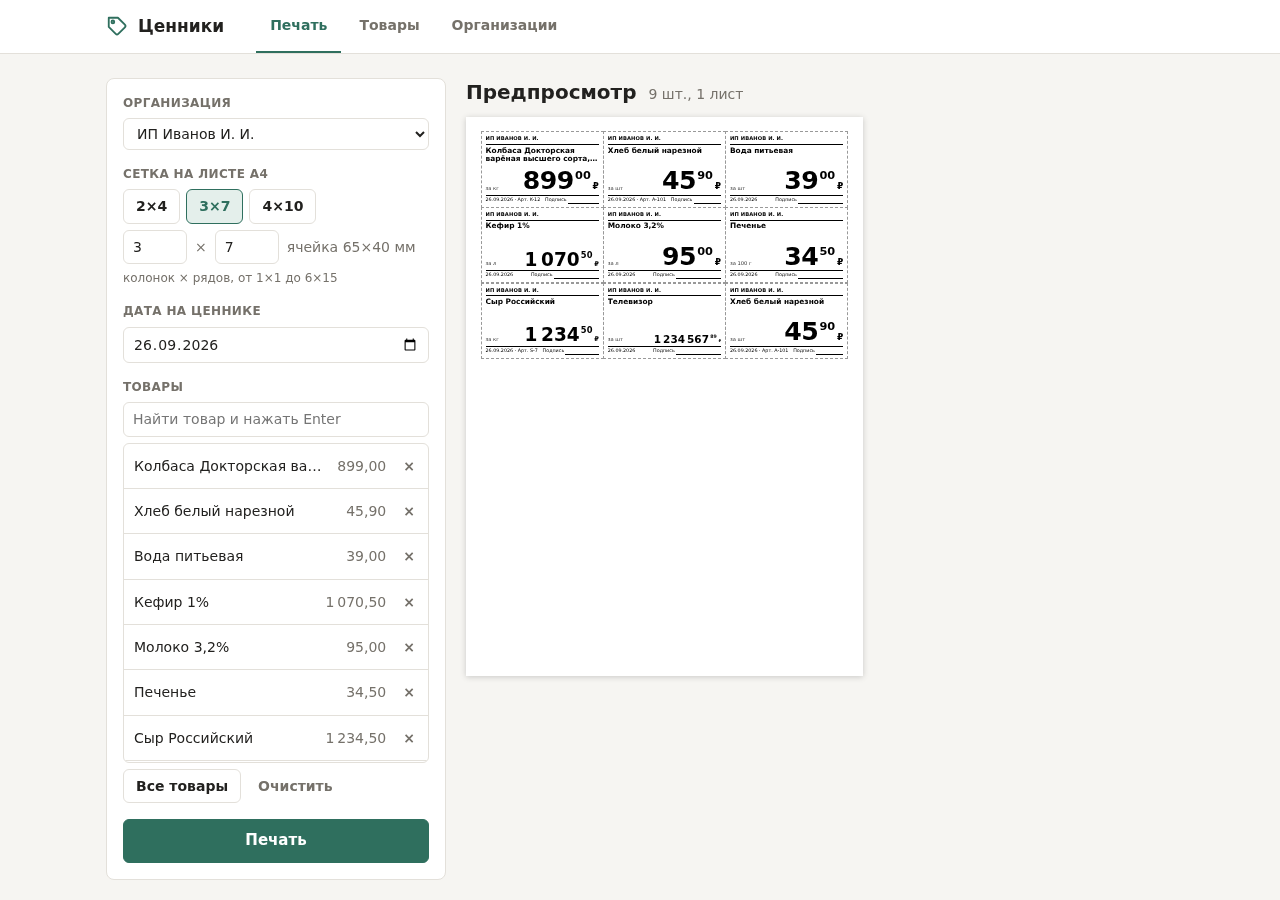
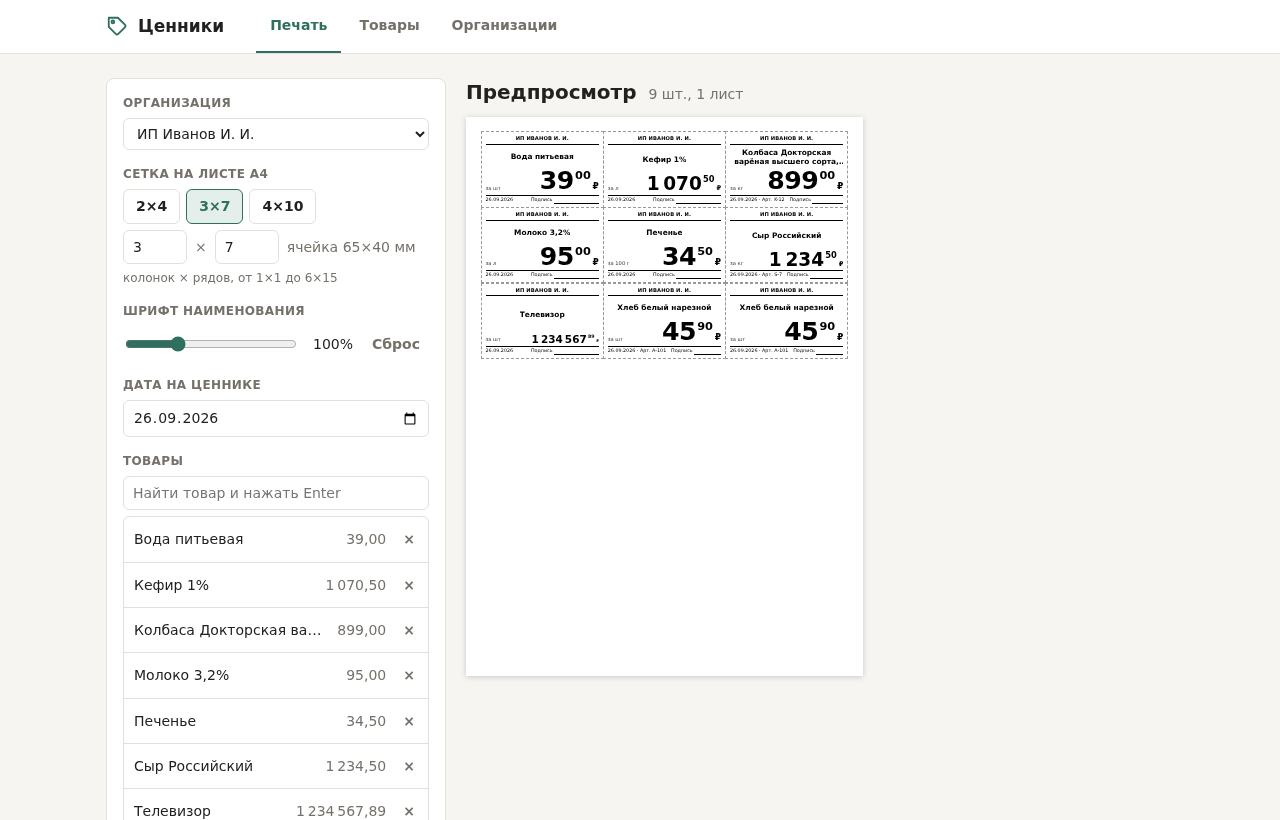
feat: размер шрифта наименования и организация по центру
Ползунок «Шрифт наименования» от 60% до 200% (по умолчанию 100%) с кнопкой
сброса, значение запоминается в браузере. Число строк наименования
подбирается по свободному месту между шапкой и ценой (до четырёх) и
пересчитывается перед печатью, поэтому крупный шрифт не выталкивает цену
из ячейки. Название организации выровнено по центру.

diff --git a/src/index_page.cpp b/src/index_page.cpp
@@ -80,6 +80,9 @@ td.actions { width: 1%; white-space: nowrap; text-align: right; }
 .presets .btn.active { background: var(--accent-soft); border-color: var(--accent); color: var(--accent); }
 .grid-inputs { display: flex; align-items: center; gap: 8px; color: var(--muted); }
 .grid-inputs input { width: 64px; }
+.scale { display: flex; align-items: center; gap: 10px; }
+.scale input[type=range] { flex: 1; accent-color: var(--accent); padding: 0; border: none; background: none; }
+.scale output { width: 44px; text-align: right; font-variant-numeric: tabular-nums; }
 .hint { color: var(--muted); font-size: 12px; }
 .picker { position: relative; }
 .picker input { width: 100%; }
@@ -107,10 +110,10 @@ td.actions { width: 1%; white-space: nowrap; text-align: right; }
 .tag { container-type: size; border: .3mm dashed #999; margin: -.15mm; overflow: hidden; }
 .tag-in { height: 100%; display: flex; flex-direction: column; padding: 4cqmin 5cqmin; gap: 2.5cqh;
   font-family: "Noto Sans", "DejaVu Sans", Arial, sans-serif; }
-.tag-org { flex: none; font-size: clamp(5px, min(7cqh, 5cqw), 5mm); font-weight: 600; text-transform: uppercase; letter-spacing: .02em;
+.tag-org { flex: none; text-align: center; font-size: clamp(5px, min(7cqh, 5cqw), 5mm); font-weight: 600; text-transform: uppercase; letter-spacing: .02em;
   border-bottom: .3mm solid #000; padding-bottom: 1.5cqh; white-space: nowrap; overflow: hidden; text-overflow: ellipsis; }
-.tag-name-box { flex: 1 0 auto; display: flex; align-items: center; justify-content: center; text-align: center; }
-.tag-name { font-size: min(10cqh, 7cqw); font-weight: 600; line-height: 1.15; overflow: hidden; display: -webkit-box;
+.tag-name-box { flex: 1 1 0; min-height: 0; overflow: hidden; display: flex; align-items: center; justify-content: center; text-align: center; }
+.tag-name { font-size: calc(min(10cqh, 7cqw) * var(--name-scale, 1)); font-weight: 600; line-height: 1.15; overflow: hidden; display: -webkit-box;
   -webkit-box-orient: vertical; -webkit-line-clamp: 2; overflow-wrap: anywhere; }
 .tag-row { flex: none; display: flex; align-items: flex-end; justify-content: space-between; gap: 3cqw; }
 .tag-unit { font-size: min(7cqh, 5cqw); color: #333; white-space: nowrap; padding-bottom: .5cqh; }
@@ -169,6 +172,13 @@ td.actions { width: 1%; white-space: nowrap; text-align: right; }
             <span id="p-cell"></span>
           </div>
           <div class="hint">колонок × рядов, от 1×1 до 6×15</div>
+        </div>
+        <div class="field"><span>Шрифт наименования</span>
+          <div class="scale">
+            <input id="p-scale" type="range" min="60" max="200" step="10" aria-label="Размер шрифта наименования, %">
+            <output id="p-scale-val"></output>
+            <button class="btn link" id="p-scale-reset" title="Вернуть 100%">Сброс</button>
+          </div>
         </div>
         <label class="field"><span>Дата на ценнике</span><input id="p-date" type="date"></label>
         <div class="field"><span>Товары</span>
@@ -392,6 +402,8 @@ const printForm = (() => {
   const PRESETS = [[2, 4], [3, 7], [4, 10]];
   const LIMITS = { cols: [1, 6], rows: [1, 15] };
   const $ = id => document.getElementById(id);
+  const SCALE = [60, 200, 100];
+  const scale = $("p-scale");
   const orgSel = $("p-org"), cols = $("p-cols"), rows = $("p-rows"), date = $("p-date"), search = $("p-search"),
     suggest = $("p-suggest"), chosenList = $("p-chosen"), sheets = $("p-sheets"), summary = $("p-summary");
   let allProducts = [], allOrgs = [], chosen = [], cursor = 0;
@@ -401,7 +413,7 @@ const printForm = (() => {
     set(v) { try { localStorage.setItem("print", JSON.stringify(v)); } catch (e) { /* хранилище недоступно */ } },
   };
   function save() {
-    store.set({ org: orgSel.value, cols: cols.value, rows: rows.value, products: chosen });
+    store.set({ org: orgSel.value, cols: cols.value, rows: rows.value, scale: scale.value, products: chosen });
   }
 
   const clamp = (v, [lo, hi], def) => { const n = parseInt(v, 10); return Number.isFinite(n) ? Math.min(hi, Math.max(lo, n)) : def; };
@@ -441,10 +453,22 @@ const printForm = (() => {
       sheet.style.setProperty("--rows", r);
       pages.push(sheet);
     }
+    sheets.style.setProperty("--name-scale", clamp(scale.value, SCALE, SCALE[2]) / 100);
     sheets.replaceChildren(...pages);
+    fitNames();
     const n = pages.length;
     summary.textContent = items.length ? `${items.length} шт., ${n} ${n === 1 ? "лист" : n < 5 ? "листа" : "листов"}` : "добавьте товары слева";
     $("p-print").disabled = !items.length;
+  }
+
+  /* Наименование показывает столько строк, сколько помещается между шапкой и ценой (до 4). */
+  function fitNames() {
+    for (const name of sheets.querySelectorAll(".tag-name")) {
+      const box = name.parentElement.clientHeight;
+      if (!box) continue;
+      const lh = parseFloat(getComputedStyle(name).lineHeight);
+      name.style.webkitLineClamp = String(Math.max(1, Math.min(4, Math.floor(box / lh))));
+    }
   }
 
   function renderChosen() {
@@ -505,6 +529,9 @@ const printForm = (() => {
     inp.addEventListener("change", () => { const [c, r] = grid(); cols.value = c; rows.value = r; update(); });
   }
   orgSel.addEventListener("change", update);
+  const showScale = () => { $("p-scale-val").textContent = `${scale.value}%`; };
+  scale.addEventListener("input", () => { showScale(); renderSheets(); save(); });
+  $("p-scale-reset").addEventListener("click", () => { scale.value = SCALE[2]; showScale(); renderSheets(); save(); });
   date.addEventListener("change", renderSheets);
   $("p-all").addEventListener("click", () => {
     const have = new Set(chosen);
@@ -513,10 +540,14 @@ const printForm = (() => {
   });
   $("p-clear").addEventListener("click", () => { chosen = []; update(); });
   $("p-print").addEventListener("click", () => window.print());
+  window.addEventListener("beforeprint", fitNames);
+  window.addEventListener("afterprint", fitNames);
 
   const saved = store.get();
   cols.value = clamp(saved.cols, LIMITS.cols, 3);
   rows.value = clamp(saved.rows, LIMITS.rows, 7);
+  scale.value = clamp(saved.scale, SCALE, SCALE[2]);
+  showScale();
   chosen = Array.isArray(saved.products) ? saved.products.filter(Number.isInteger) : [];
   date.value = today();
 

diff --git a/README.md b/README.md
@@ -18,8 +18,14 @@
 
 ## Печать ценников
 
-Ценник содержит название организации, наименование товара (до двух строк), цену, единицу измерения («за кг»),
-дату, артикул (если указан) и строку для подписи. Ячейки обведены пунктиром для резки.
+Ценник содержит название организации, наименование товара, цену, единицу измерения («за кг»), дату, артикул
+(если указан) и строку для подписи. Организация и наименование выровнены по центру, ячейки обведены пунктиром
+для резки.
+
+Размер шрифта наименования меняется ползунком «Шрифт наименования» от 60% до 200% (по умолчанию 100%).
+Наименование занимает столько строк, сколько помещается между шапкой и ценой (не больше четырёх), остальное
+заменяется многоточием: при крупном шрифте на мелкой сетке длинное название может обрезаться, это видно в
+предпросмотре.
 
 Сетка задаётся числом колонок и рядов: готовые варианты 2×4 (8 ценников на листе), 3×7 (21) и 4×10 (40)
 или вручную от 1×1 до 6×15. Размер ячейки показывается рядом (поле листа 8 мм). Шрифты масштабируются под
@@ -27,7 +33,7 @@
 несколько листов.
 
 Товар добавляется в список поиском по наименованию или артикулу (стрелки и Enter) или кнопкой «Все товары».
-Выбранные организация, сетка и список товаров запоминаются в браузере.
+Выбранные организация, сетка, размер шрифта и список товаров запоминаются в браузере.
 
 В диалоге печати браузера нужно выбрать масштаб 100% («Фактический размер»), иначе размеры ценников
 изменятся. Колонтитулы браузера (адрес, дата) лучше отключить.
